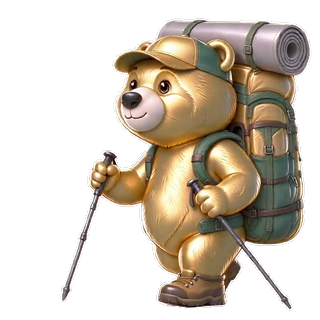
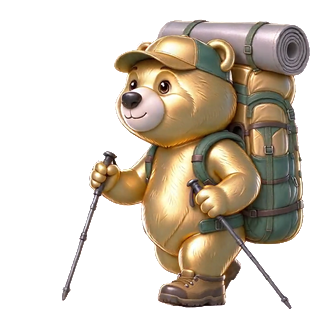
小贝篝火版重做：不做任何结构删减（登山杖/柴枝/杯把全保留）、取消背景色解算（黑影来源）、硬边 1px 抗锯齿

diff --git a/order.html b/order.html
@@ -397,7 +397,7 @@ var _hmt = _hmt || [];
     <!-- 小贝 · AI 替身（篝火小熊入口 + 弹窗） -->
     <div id="bai-walker">
       <button id="bai-btn" type="button" aria-label="问贝加尔湖50径" title="有问题问它">
-        <img src="/xiaobei-camp.webp?v=20261104c" width="320" height="320"
+        <img src="/xiaobei-camp.webp?v=20261104e" width="320" height="320"
              alt="小贝背起背包走进贝加尔湖岸，生火煮水休息" aria-hidden="true">
       </button>
       <span class="bai-tip">有问题？问一句</span>
